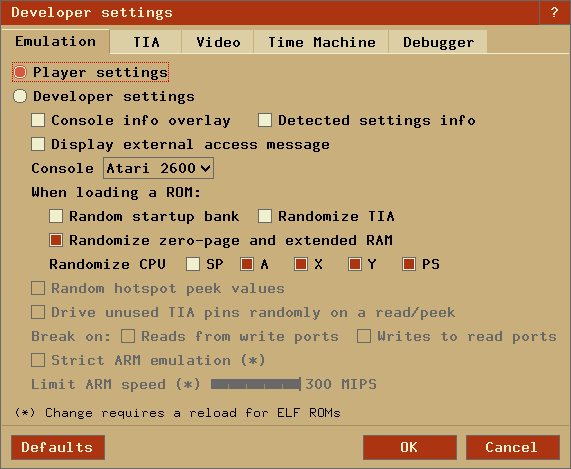
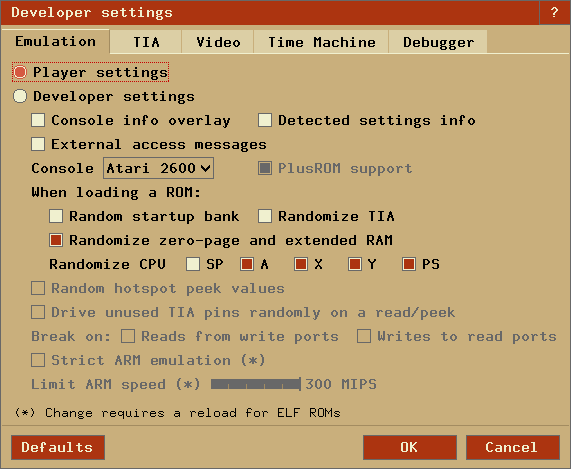
update doc

diff --git a/docs/index.html b/docs/index.html
@@ -3641,6 +3641,9 @@
       <td><pre>-&lt;plr.|dev.&gt;console &lt;2600|7800&gt;</pre></td>
       <td>Select console for B/W and Pause key handling and RAM initialization.</td>
     </tr><tr>
+      <td><pre>-dev.plusroms.on &lt;1|0&gt;</pre></td>
+      <td>Enable/disable PlusROM support, e.g. for testing.</td>
+    </tr><tr>
       <td><pre>-&lt;plr.|dev.&gt;bankrandom &lt;1|0&gt;</pre></td>
       <td>On reset, randomize the startup bank (only for selected bankswitch types).</td>
     </tr><tr>
@@ -4583,6 +4586,11 @@
             <td>-plr.console <br/>-dev.console</td>
           </tr>
           <tr>
+            <td>PlusROM support</td>
+            <td>Enable/disable PlusROM support, e.g. for testing.</td>
+            <td>-dev.plusroms.on</td>
+          </tr>
+          <tr>
             <td>Random startup bank</td>
             <td>Randomize the startup bank (only for selected bankswitch types)</td>
             <td>-plr.bankrandom<br/>-dev.bankrandom</td>
@@ -5147,7 +5155,9 @@ Ms Pac-Man (Stella extended codes):
         <tr><td>NTSC50 &#185;</td><td>NTSC50, NTSC 50, NTSC-50, PAL-N</td></tr>
         <tr><td>PAL60 &#185;</td><td>PAL60, PAL 60, PAL-60</td></tr>
         <tr><td>SECAM60 &#185;</td><td>SECAM60, SECAM 60, SECAM-60</td></tr>
-      </table></td>
+      </table>
+	  Additionally, to detect PAL-60 format games, the ROM is scanned for the following
+	  signature strings: "PAL60", "PAL 60" and "PAL-60"</td>
     </tr>
 
     <tr>
